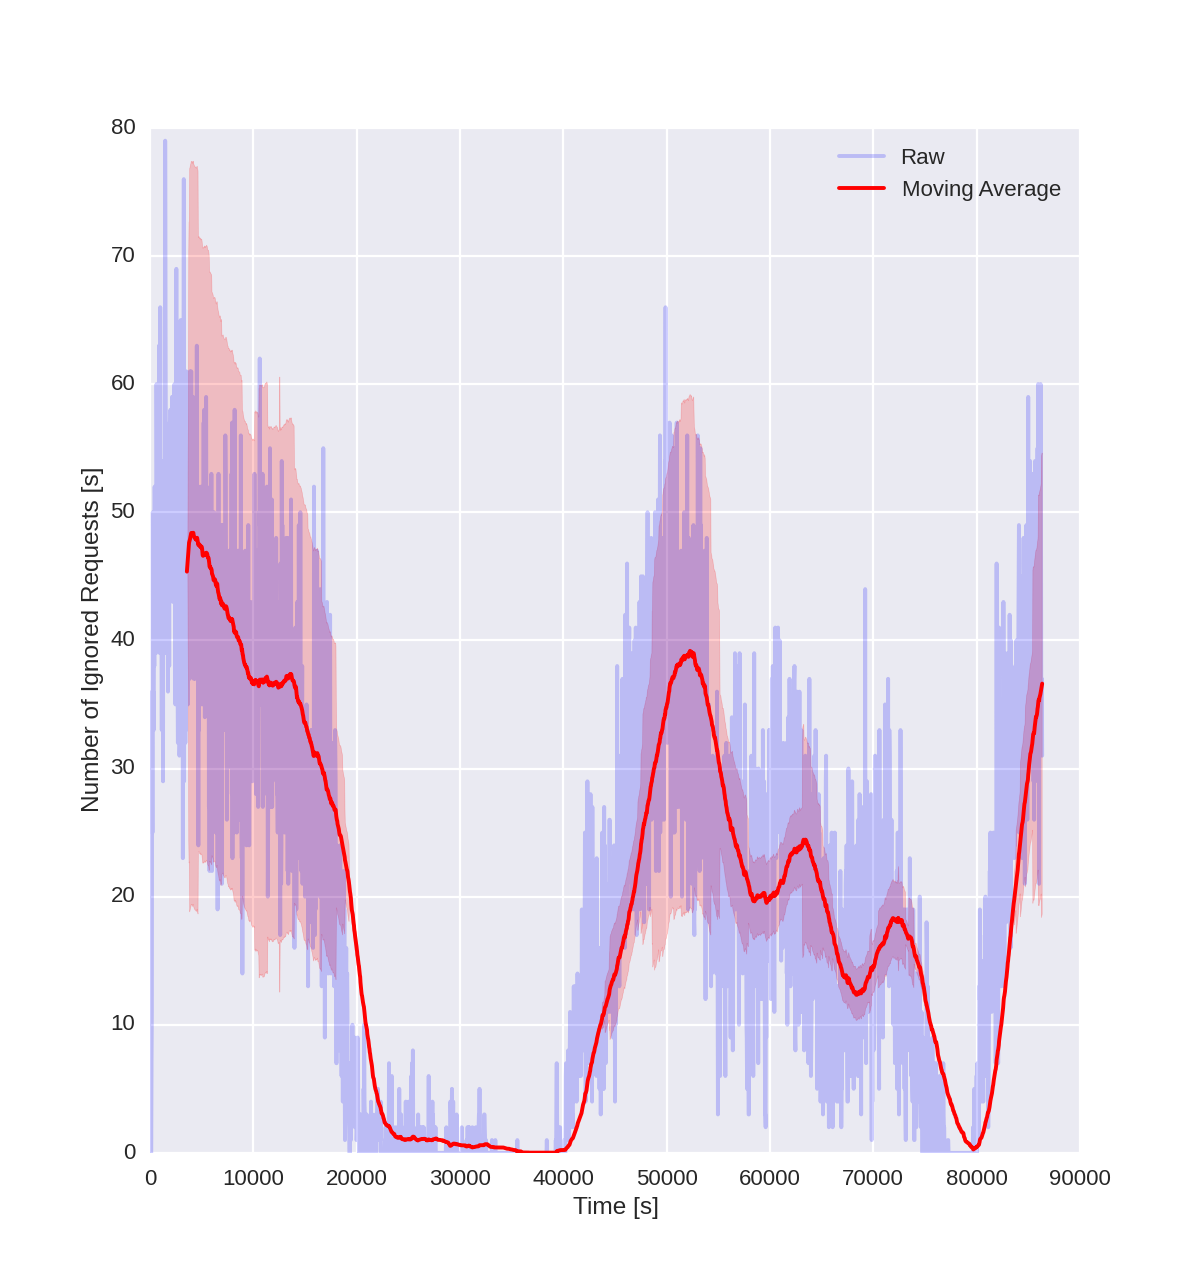
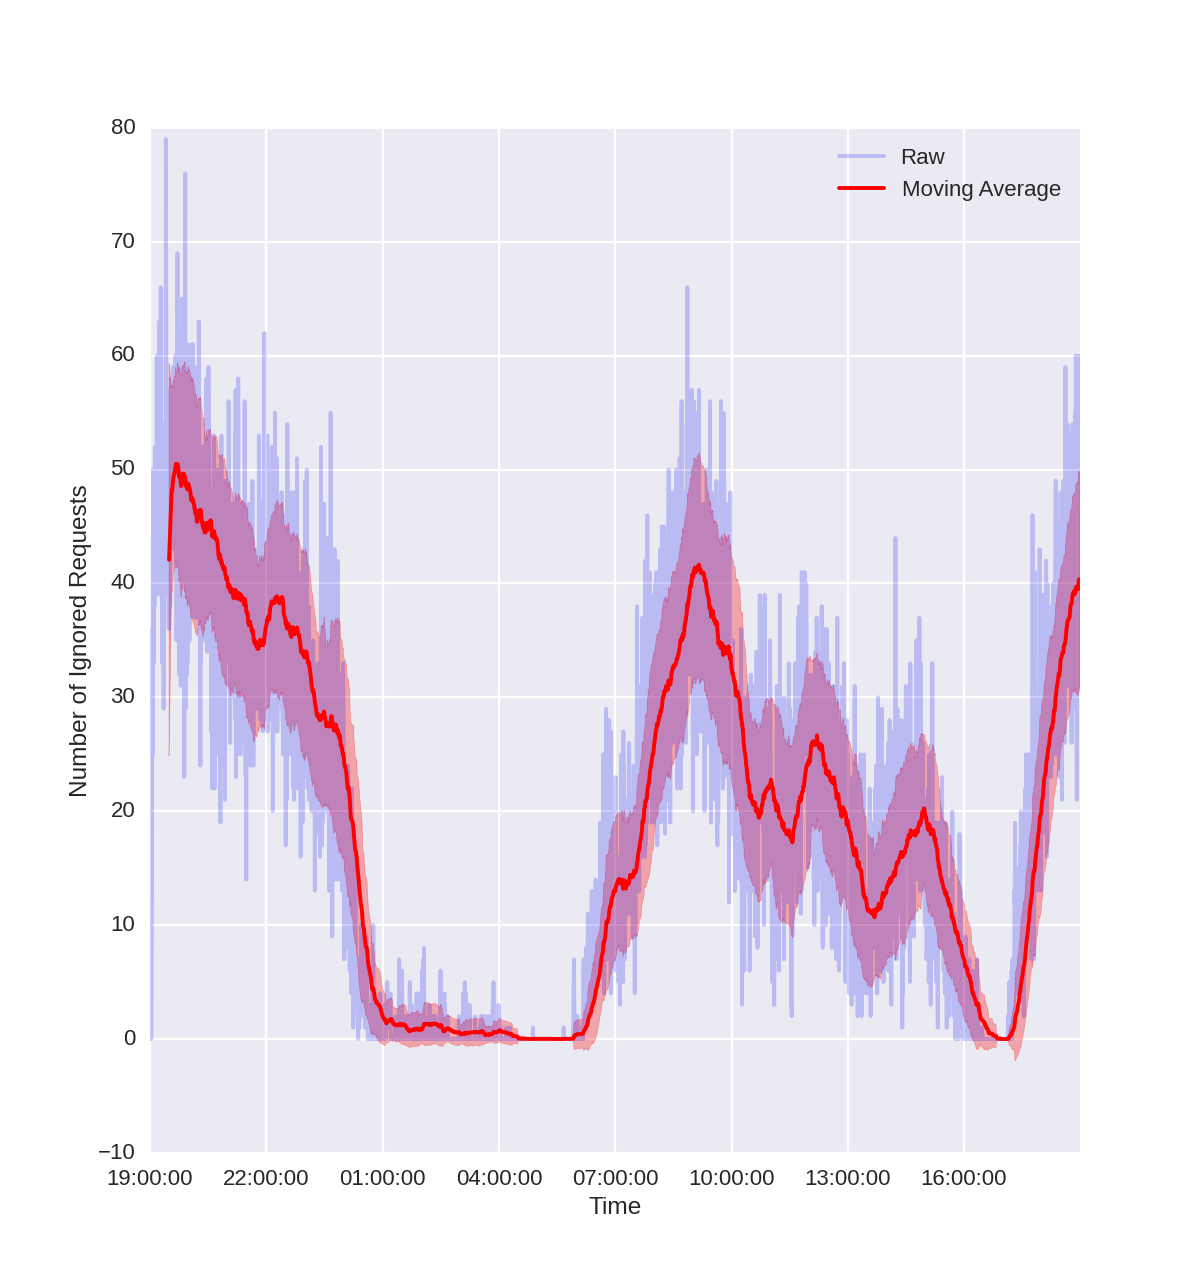
Going to sleep

diff --git a/scripts/plot_metrics.py b/scripts/plot_metrics.py
@@ -1,5 +1,6 @@
 
 import io
+import common
 import os.path
 import numpy as np
 import matplotlib.pyplot as plt
@@ -7,6 +8,7 @@ import pandas
 import re
 import seaborn as sns
 from collections import defaultdict
+from datetime import datetime
 
 __all__ = ["sns"]
 
@@ -53,11 +55,35 @@ def extract_metrics(folder):
         filename = g_folder + DATA_FILE_TEMPLATE.format(GRAPHS_PREFIX, t)
         print filename
         if not os.path.isfile(filename):
-            return pandas.DataFrame(data)
+            inds = pandas.date_range(
+                start=datetime.strptime(
+                    "2013-05-03 19:00:00", common.date_format),
+                periods=24 * 60 * 2 - 1, freq="30S")
+            for k in data.keys():
+                data[k] = np.array(data[k])
+            return pandas.DataFrame(data, index=inds)
         with io.open(filename) as fin:
+            fin.readline()
+            n_reqs = int(re.findall(r"\d+", fin.readline())[0])
+            data["n_reqs"].append(n_reqs)
+            while True:
+                line = fin.readline()
+                if "Vehicles" in line:
+                    break
+            ppv = list()
+            line = fin.readline()
+            while len(line) > 1:
+                passes = re.findall(r"\d+", line.split("%")[1])
+                ppv.append(len(passes))
+                line = fin.readline()
+            data["mean_passengers"].append(np.mean(ppv))
+            data["med_passengers"].append(np.median(ppv))
+            data["std_passengers"].append(np.std(ppv))
             while True:
                 line = fin.readline()
                 if "Passengers" in line:
+                    n_pass = int(re.findall(r"\d+", line)[0])
+                    data["total_passengers"].append(n_pass)
                     break
             line = re.findall(REG, fin.readline())
             if len(line) > 0:
@@ -72,35 +98,86 @@ def extract_metrics(folder):
                     line = re.findall(REG, fin.readline())
                 data["mean_waiting_time"].append(np.mean(waiting_time))
                 data["med_waiting_time"].append(np.median(waiting_time))
+                data["std_waiting_time"].append(np.std(waiting_time))
                 data["mean_delay"].append(np.mean(delay))
                 data["med_delay"].append(np.median(delay))
+                data["std_delay"].append(np.std(delay))
             else:
                 data["mean_waiting_time"].append(0)
                 data["med_waiting_time"].append(0)
+                data["std_waiting_time"].append(0)
                 data["mean_delay"].append(0)
                 data["med_delay"].append(0)
+                data["std_delay"].append(0)
 
             fin.readline()
             line = re.findall(REG, fin.readline())
             pd = PerformanceData(line)
-            data["time"].append(t)
+            # data["time"].append(t)
             data["n_pickups"].append(pd.n_pickups)
             data["n_dropoffs"].append(pd.n_dropoffs)
             data["n_ignored"].append(pd.n_ignored)
         t += TIME_STEP
 
 
+def plot_total_passengers(data):
+    plt.figure()
+    n_pass = pandas.Series(
+        np.array(data["total_passengers"]),
+        index=pandas.date_range(
+            start=datetime.strptime("2013-05-03 19:00:00", common.date_format),
+            periods=24 * 60 * 2 - 1,
+            freq="30S"))
+    ma = pandas.rolling_mean(n_pass, 60)
+    mstd = pandas.rolling_std(n_pass, 60)
+    plt.plot(n_pass.index, n_pass, "b", alpha=0.2,
+             label="Raw")
+    plt.plot(ma.index, ma, "r", label="Moving Average")
+    plt.fill_between(mstd.index, ma - mstd, ma + mstd, color="r", alpha=0.3,
+                     label="Standard Deviation")
+    plt.xlabel("Time")
+    plt.ylabel("Number of Ignored Requests")
+    plt.legend()
+
+
+def plot_passengers(data):
+    plt.figure()
+    n_pass = data["mean_passengers"]
+    std_pass = data["std_passengers"]
+    ma = pandas.rolling_mean(n_pass, 60)
+    plt.plot(data.index, n_pass, "b", alpha=0.2, label="Raw")
+    plt.plot(data.index, ma, "r", label="Moving Average")
+    plt.fill_between(data.index, n_pass - std_pass,
+                     n_pass + std_pass, color="r", alpha=0.3)
+    plt.xlabel("Time")
+    plt.ylabel("Number of Passengers Per Car")
+    plt.legend()
+
+
+def plot_number_ignored(data):
+    plt.figure()
+    n_ignored = pandas.Series(
+        np.array(data["n_ignored"]),
+        index=pandas.date_range(
+            start=datetime.strptime("2013-05-03 19:00:00", common.date_format),
+            periods=24 * 60 * 2 - 1,
+            freq="30S"))
+    ma = pandas.rolling_mean(n_ignored, 60)
+    mstd = pandas.rolling_std(n_ignored, 60)
+    plt.plot(n_ignored.index, n_ignored, "b", alpha=0.2,
+             label="Raw")
+    plt.plot(ma.index, ma, "r", label="Moving Average")
+    plt.fill_between(mstd.index, ma - mstd, ma + mstd, color="r", alpha=0.3,
+                     label="Standard Deviation")
+    plt.xlabel("Time")
+    plt.ylabel("Number of Ignored Requests")
+    plt.legend()
+
+
 if __name__ == "__main__":
     sns.set_context("poster")
     data = extract_metrics("data/sim-data/")
-    ma = pandas.rolling_mean(data["n_ignored"], 60)
-    mstd = pandas.rolling_std(data["n_ignored"], 60)
-    plt.plot(data["time"], data["n_ignored"], "b", alpha=0.2,
-             label="Raw")
-    plt.plot(data["time"], ma, "r", label="Moving Average")
-    plt.fill_between(data["time"], ma - mstd, ma + mstd, color="r", alpha=0.4,
-                     label="Standard Deviation")
-    plt.xlabel("Time [s]")
-    plt.ylabel("Number of Ignored Requests [s]")
-    plt.legend()
+    # plot_number_ignored(data)
+    # plot_total_passengers(data)
+    plot_passengers(data)
     plt.show()
